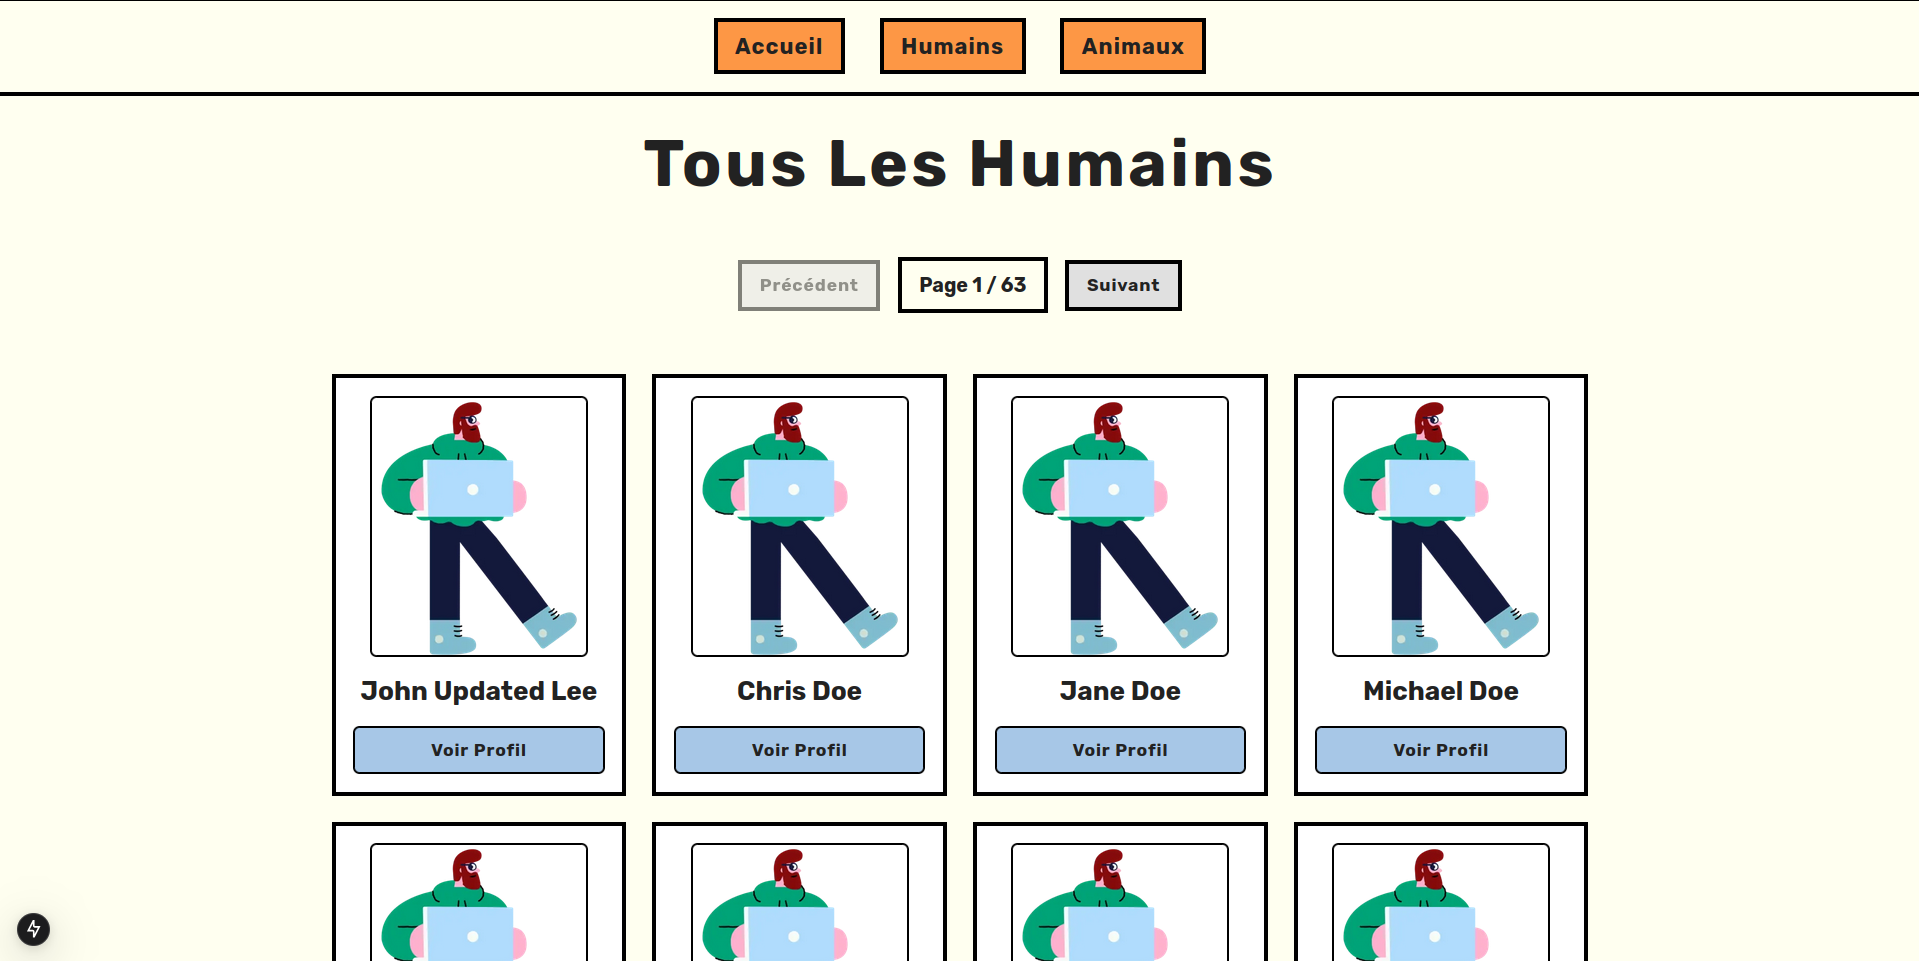
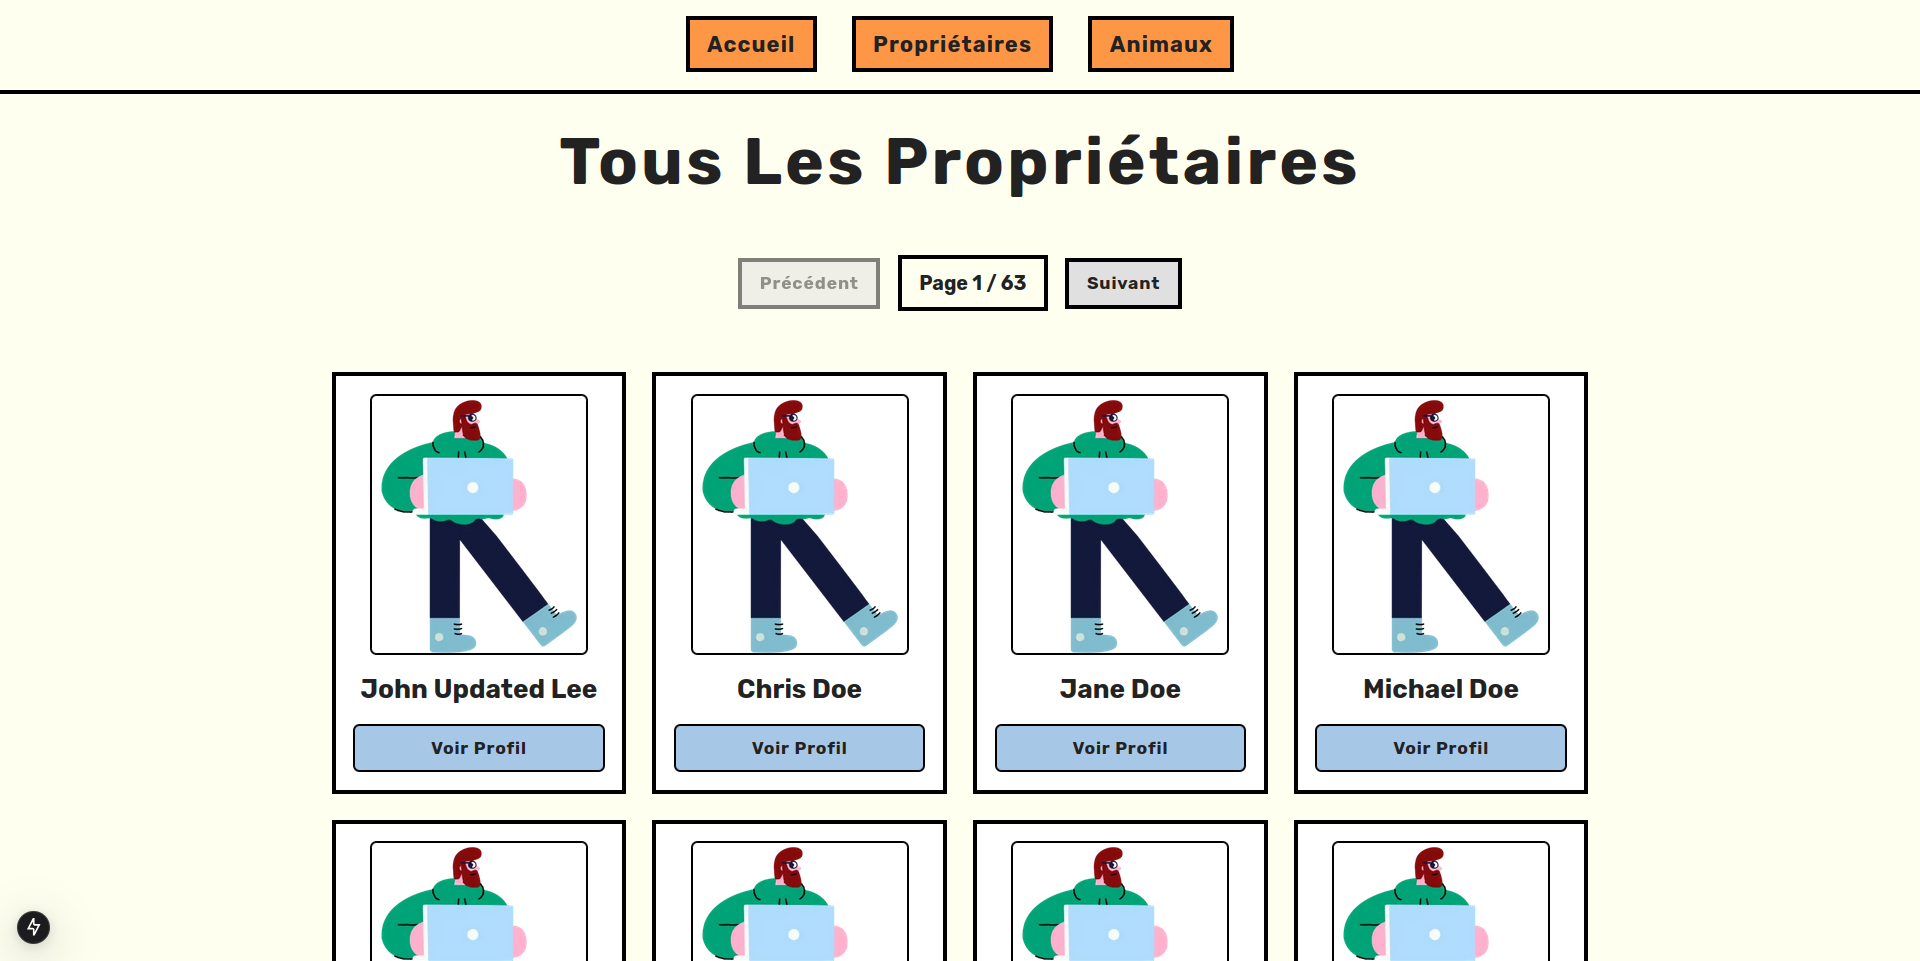
the end

diff --git a/frontend/app/persons/[id]/page.tsx b/frontend/app/persons/[id]/page.tsx
@@ -2,39 +2,45 @@
 import { useParams } from 'next/navigation';
 import { useQuery } from '@apollo/client';
 import { notFound } from 'next/navigation';
-import { GET_PERSON_BY_ID } from '../../graphql/PersonQueries';
-import Link from 'next/link';
-import Image from 'next/image';
+import { GET_PERSON_BY_ID } from '@/app/graphql/PersonQueries';
+import { GET_ANIMALS } from '@/app/graphql/AnimalQueries';
 import LoadingMessage from '@/app/components/LoadingMessage';
 import ErrorMessage from '@/app/components/ErrorMessage';
+import Link from 'next/link';
+import Image from 'next/image';
+import React from 'react';
 
 const Person = () => {
 
   // Extracts the id in the URL to get a specific person and with it extracts the data from GraphQL
   const params = useParams();
-  const { id } = params;
-  const { loading, error, data } = useQuery(GET_PERSON_BY_ID, {
-    variables: { id: Number(id) },
+  const { id: personId } = params;
+  const { loading: personLoading, error: personError, data: personData } = useQuery(GET_PERSON_BY_ID, {
+    variables: { id: Number(personId) },
   });
 
-  if (loading) return (
-    <LoadingMessage/>
-  );
+  // GraphQL Querie to know if the person has animal(s)
+  const { loading: animalsLoading, error: animalsError, data: animalsData } = useQuery(GET_ANIMALS);
 
-  if (error) return (
-    <ErrorMessage message={error.message} />
-  );
+  if (personLoading || animalsLoading) return <LoadingMessage />;
+  if (personError) return <ErrorMessage message={personError.message} />;
+  if (animalsError) return <ErrorMessage message={animalsError.message} />;
 
-  // Avoids Nextjs error page
-  const person = data?.person;
+  // Avoid Nextjs error page
+  const person = personData?.person;
   if (!person) {
     notFound();
   }
 
+  // Filter to get the animal(s) the person owned 
+  const animalsOwned = animalsData?.animals.filter(
+    (animal) => animal.ownerId === Number(personId)
+  );
+
   return (
-    <div className="min-h-screen p-8 ">
+    <div className="min-h-screen p-8">
       <div className="max-w-4xl mx-auto">
-        <h1 className="text-6xl font-bold text-center mb-8  tracking-wider">
+        <h1 className="text-6xl font-bold text-center mb-8 tracking-wider">
           Profil de {person.firstName} {person.lastName}
         </h1>
         <div className="bg-white border-4 border-black p-8">
@@ -48,17 +54,33 @@ const Person = () => {
               />
             </div>
           </div>
-          <h2 className="text-4xl font-bold mb-4  text-center">{person.firstName} {person.lastName}</h2>
+          <h2 className="text-4xl font-bold mb-4 text-center">{person.firstName} {person.lastName}</h2>
           <div className="space-y-2">
             <p className="text-xl"><span className="font-bold">Email :</span> {person.email}</p>
             <p className="text-xl"><span className="font-bold">Téléphone :</span> {person.phoneNumber}</p>
+            {animalsOwned && animalsOwned.length > 0 ? (
+              <p className="text-xl">
+                <span className="font-bold">Animaux :</span>{' '}
+                {animalsOwned.map((animal) => (
+                  <Link
+                    key={animal.id}
+                    href={`/animals/${animal.id}`}
+                    className="font-bold bg-[#A7C7E7] border-2 rounded-md border-black px-2 py-1 inline-block transition-transform duration-200 hover:translate-x-1 hover:-translate-y-1 hover:shadow-[4px_4px_0_0_rgba(0,0,0,1)] mr-2"
+                  >
+                    {animal.name}
+                  </Link>
+                ))}
+              </p>
+            ) : (
+              <p className="text-xl"><span className="font-bold">Animaux :</span> Aucun animal trouvé pour ce propriétaire.</p>
+            )}
           </div>
         </div>
         <Link
           href="/persons"
-          className="block mt-8 text-center bg-[#FD9745] border-4 border-black p-4 font-bold text-2xl  tracking-wider transition-transform duration-200 hover:translate-x-1 hover:-translate-y-1 hover:shadow-[8px_8px_0_0_rgba(0,0,0,1)]"
+          className="block mt-8 text-center bg-[#FD9745] border-4 border-black p-4 font-bold text-2xl tracking-wider transition-transform duration-200 hover:translate-x-1 hover:-translate-y-1 hover:shadow-[8px_8px_0_0_rgba(0,0,0,1)]"
         >
-          Retour à la liste des humains
+          Retour à la liste des propriétaires
         </Link>
       </div>
     </div>

diff --git a/backend/src/person/person.resolver.ts b/backend/src/person/person.resolver.ts
@@ -7,26 +7,42 @@ import { PersonService } from './person.service';
 import { Person } from './entities/person.entity';
 import { CreatePersonInput } from './dto/create-person.input';
 import { UpdatePersonInput } from './dto/update-person.input';
+import { NotFoundException } from '@nestjs/common';
 
 @Resolver(() => Person)
 export class PersonResolver {
   constructor(private personService: PersonService) {}
 
-  @Mutation(() => Person)
-  async createPerson(
-    @Args('createPersonInput') CreatePersonInput: CreatePersonInput,
-  ): Promise<Person> {
-    return this.personService.create(CreatePersonInput);
-  }
-
   @Query(() => [Person])
   async persons(): Promise<Person[]> {
-    return this.personService.findAll();
+    try {
+      return await this.personService.findAll();
+    } catch (error) {
+      console.error('Error occurred while fetching all persons:', error);
+      throw new Error('Impossible de récupérer tous les propriétaires.');
+    }
   }
 
   @Query(() => Person)
   async person(@Args('id', { type: () => Int }) id: number): Promise<Person> {
-    return this.personService.findOne(id);
+    try {
+      return await this.personService.findOne(id);
+    } catch (error) {
+      console.error('Error occurred while fetching the person:', error);
+      throw new NotFoundException(`Le propriétaire n° ${id} n'existe pas.`);
+    }
+  }
+
+  @Mutation(() => Person)
+  async createPerson(
+    @Args('createPersonInput') createPersonInput: CreatePersonInput,
+  ): Promise<Person> {
+    try {
+      return await this.personService.create(createPersonInput);
+    } catch (error) {
+      console.error('Error occurred while creating person:', error);
+      throw new Error('La création du propriétaire a échouée.');
+    }
   }
 
   @Mutation(() => Person)
@@ -34,13 +50,25 @@ export class PersonResolver {
     @Args('id', { type: () => Int }) id: number,
     @Args('updatePersonInput') updatePersonInput: UpdatePersonInput,
   ): Promise<Person> {
-    return this.personService.update(id, updatePersonInput);
+    try {
+      return await this.personService.update(id, updatePersonInput);
+    } catch (error) {
+      console.error('Error occurred while updating the person:', error);
+      throw new Error(
+        `Impossible de modifier les informations du propriétaire n° ${id}.`,
+      );
+    }
   }
 
   @Mutation(() => Boolean)
   async deletePerson(
     @Args('id', { type: () => Int }) id: number,
   ): Promise<boolean> {
-    return this.personService.remove(id);
+    try {
+      return await this.personService.remove(id);
+    } catch (error) {
+      console.error('Error occurred while deleting the person:', error);
+      throw new Error(`Impossible de supprimer le propriétaire n° ${id}.`);
+    }
   }
 }

diff --git a/backend/src/animal/animal.resolver.ts b/backend/src/animal/animal.resolver.ts
@@ -7,26 +7,42 @@ import { AnimalService } from './animal.service';
 import { Animal } from './entities/animal.entity';
 import { CreateAnimalInput } from './dto/create-animal.input';
 import { UpdateAnimalInput } from './dto/update-animal.input';
+import { NotFoundException } from '@nestjs/common';
 
 @Resolver(() => Animal)
 export class AnimalResolver {
-  constructor(private animalService: AnimalService) {}
+  constructor(private readonly animalService: AnimalService) {}
 
   @Query(() => [Animal])
   async animals(): Promise<Animal[]> {
-    return this.animalService.findAll();
+    try {
+      return await this.animalService.findAll();
+    } catch (error) {
+      console.error('Error occurred while fetching animals:', error);
+      throw new Error('Impossible de récupérer tous les animaux.');
+    }
   }
 
   @Query(() => Animal)
   async animal(@Args('id', { type: () => Int }) id: number): Promise<Animal> {
-    return this.animalService.findOne(id);
+    try {
+      return await this.animalService.findOne(id);
+    } catch (error) {
+      console.error('Error occurred while fetching the animal:', error);
+      throw new NotFoundException(`L'animal n° ${id} n'existe pas.`);
+    }
   }
 
   @Mutation(() => Animal)
   async createAnimal(
     @Args('createAnimalInput') createAnimalInput: CreateAnimalInput,
   ): Promise<Animal> {
-    return this.animalService.create(createAnimalInput);
+    try {
+      return await this.animalService.create(createAnimalInput);
+    } catch (error) {
+      console.error('Error occurred while creating the animal:', error);
+      throw new Error(`La création de l'animal a échouée.`);
+    }
   }
 
   @Mutation(() => Animal)
@@ -34,13 +50,25 @@ export class AnimalResolver {
     @Args('id', { type: () => Int }) id: number,
     @Args('updateAnimalInput') updateAnimalInput: UpdateAnimalInput,
   ): Promise<Animal> {
-    return this.animalService.update(id, updateAnimalInput);
+    try {
+      return await this.animalService.update(id, updateAnimalInput);
+    } catch (error) {
+      console.error('Error occurred while updating the animal:', error);
+      throw new Error(
+        `Impossible de modifier les informations de l animal n° ${id}.`,
+      );
+    }
   }
 
   @Mutation(() => Boolean)
   async deleteAnimal(
     @Args('id', { type: () => Int }) id: number,
   ): Promise<boolean> {
-    return this.animalService.remove(id);
+    try {
+      return await this.animalService.remove(id);
+    } catch (error) {
+      console.error('Error occurred while deleting the animal:', error);
+      throw new Error(`Impossible de supprimer l'animal n° ${id}.`);
+    }
   }
 }

diff --git a/frontend/app/page.tsx b/frontend/app/page.tsx
@@ -18,13 +18,13 @@ const HomePage = () => {
         <div className="grid grid-cols-1 md:grid-cols-2 gap-8">
           <Link href="/persons" className="block">
             <button className="w-full px-8 py-6 bg-[#A7C7E7] text-2xl font-bold tracking-widest border-4 border-black transition-all duration-200 hover:translate-x-1 hover:-translate-y-1 active:translate-x-0 active:translate-y-0 hover:shadow-[8px_8px_0_rgba(0,0,0,1)] active:shadow-none">
-              Voir Tous les Humains
+              Voir les Propriétaires
             </button>
           </Link>
           
           <Link href="/animals" className="block">
             <button className="w-full px-8 py-6 bg-[#A7C7E7] text-2xl font-bold tracking-widest border-4 border-black transition-all duration-200 hover:translate-x-1 hover:-translate-y-1 active:translate-x-0 active:translate-y-0 hover:shadow-[8px_8px_0_rgba(0,0,0,1)] active:shadow-none">
-              Voir Tous les Animaux
+              Voir les Animaux
             </button>
           </Link>
         </div>

diff --git a/frontend/app/components/Navbar.tsx b/frontend/app/components/Navbar.tsx
@@ -16,7 +16,7 @@ const Navbar = () => {
         <li className="relative group">
           <Link href={"/persons"} className="block">
             <div className="px-4 py-2 text-lg md:text-xl font-bold  tracking-wider bg-[#FD9745] border-4 border-black transition-transform duration-200 hover:translate-x-1 hover:-translate-y-1 active:translate-x-0 active:translate-y-0 hover:shadow-[4px_4px_0_0_rgba(0,0,0,1)]">
-              Humains
+              Propriétaires
             </div>
           </Link>
         </li>

diff --git a/frontend/app/components/ErrorMessage.tsx b/frontend/app/components/ErrorMessage.tsx
@@ -6,8 +6,8 @@ interface ErrorMessageProps
 const ErrorMessage = ({ message }: ErrorMessageProps) => {
   return (
     <div className="min-h-screen flex items-center justify-center">
-      <div className="text-4xl font-bold tracking-wider bg-[#FD9745] border-4 border-black p-4">
-        Error: {message}
+      <div className="text-4xl font-bold tracking-wider bg-black text-white  p-4">
+        Erreur:  {message}
       </div>
     </div>
   );

diff --git a/frontend/app/persons/page.tsx b/frontend/app/persons/page.tsx
@@ -42,7 +42,7 @@ const AllPersons = () => {
   return (
     <div className="min-h-screen p-8 ">
       <div className="max-w-6xl mx-auto">
-        <h1 className="text-6xl font-bold text-center mb-8  tracking-wider">Tous Les Humains</h1>
+        <h1 className="text-6xl font-bold text-center mb-8  tracking-wider">Tous Les Propriétaires</h1>
         <Pagination
           currentPage={currentPage}
           totalPages={totalPages}

diff --git a/frontend/app/components/LoadingMessage.tsx b/frontend/app/components/LoadingMessage.tsx
@@ -1,7 +1,7 @@
 const LoadingMessage = () => {
   return (
     <div className="min-h-screen flex items-center justify-center ">
-      <div className="text-4xl font-bold  tracking-wider bg-[#FD9745] border-4 border-black p-4">
+      <div className="text-4xl font-bold  tracking-wider bg-black text-white p-4">
         Chargement...
       </div>
     </div>

diff --git a/README.md b/README.md
@@ -4,11 +4,11 @@
 
 ## Fonctionnalités du Projet
 
-- **Accès à tous les humains et animaux** : L'application permet de consulter la liste complète des personnes et des animaux enregistrés dans la base de données MySQL.
-- **Pages individuelles pour chaque humain et chaque animal** : Chaque humain et chaque animal a sa propre page avec ses informations détaillées.
+- **Accès à tous les propriétaires et animaux** : L'application permet de consulter la liste complète des personnes et des animaux enregistrés dans la base de données MySQL.
+- **Pages individuelles pour chaque propriétaireet chaque animal** : Chaque propriétaire et chaque animal a sa propre page avec ses informations détaillées.
 - **Système de pagination** : Afin de faciliter la navigation, un système de pagination est intégré pour afficher les données de manière organisée et permettre une navigation rapide.
 - **Site responsive** : L'application est entièrement responsive, garantissant une expérience utilisateur optimale sur tous les types d'appareils (ordinateurs, tablettes, mobiles).
-- **Données stockées dans MySQL** : Les informations des humains et des animaux sont stockées dans une base de données MySQL, garantissant une gestion structurée et fiable des données.
+- **Données stockées dans MySQL** : Les informations des propriétaires et des animaux sont stockées dans une base de données MySQL, garantissant une gestion structurée et fiable des données.
 - **Backend avec NestJS et API GraphQL** : Le serveur est construit avec **NestJS**, un framework Node.js robuste. Les données sont transmises au frontend via une API **GraphQL**, offrant ainsi une manière flexible et efficace de récupérer les données.
 
 
